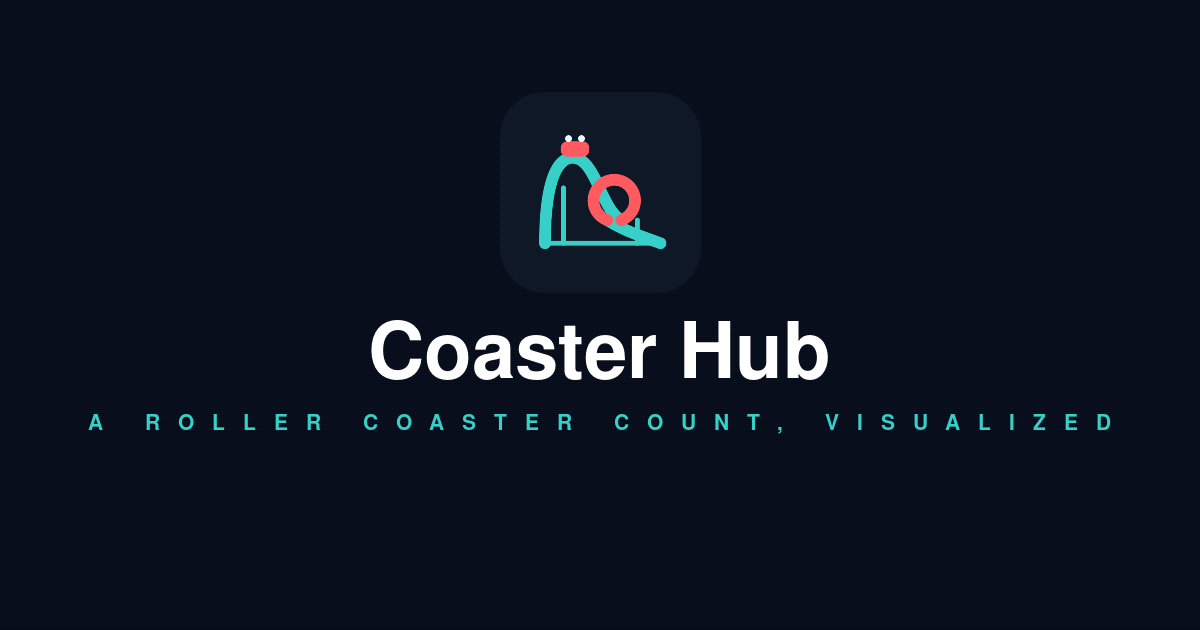
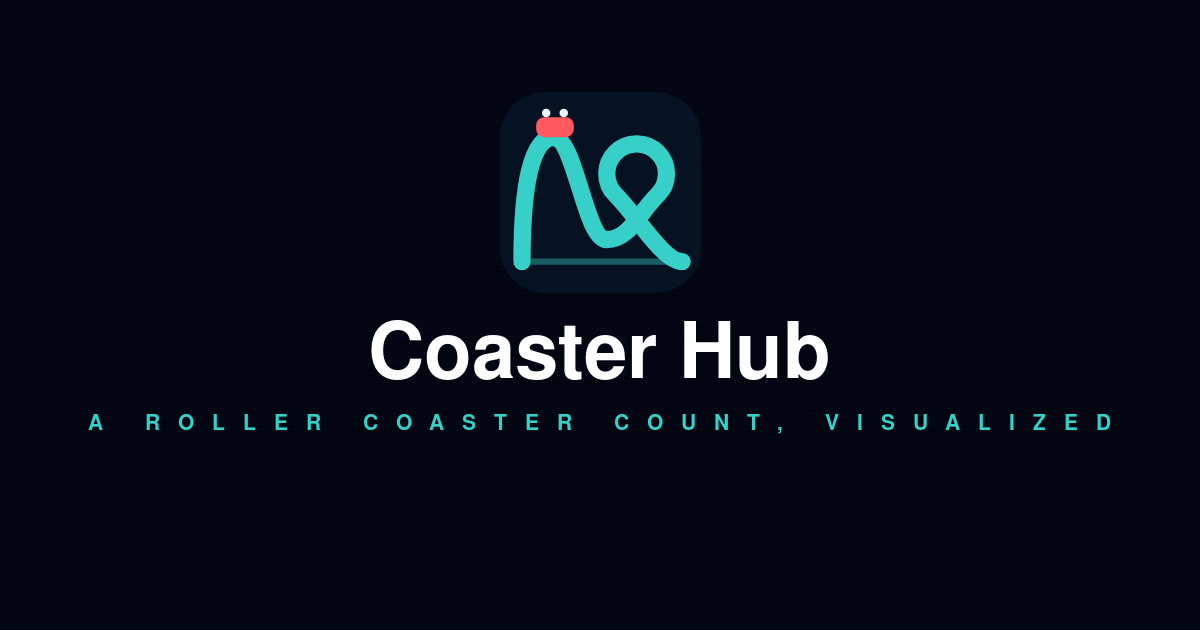
Rework the mark: the track is one continuous path through the loop
The loop was a coral circle butted against the ends of two teal track fragments.
Nothing connected it: the arc's endpoints met the track at an angle rather than
on its tangent, the exit segment started behind the entry point, and the colour
changed exactly at the join — so it read as a sticker parked next to a hill.

It is now a single stroke: lift hill, drop, under the loop, around it, and out.
Two things carry that and both are load-bearing.

  - Entry and exit meet the loop on its TANGENT, 45 degrees either side of the
    bottom, at (50.22,32.72) and (36.78,32.72) on a circle centred (43.5,26)
    r=9.5. There is no corner left to notice.
  - The two legs CROSS below the loop, at about (43.6,40.7). That crossing is
    what reads as track; without it the shape is a balloon on a stick.

Coral is now only the car. A colour break mid-track was the other half of why
the loop looked detached — and a coral loop over converging legs turns the
whole thing into a map pin, which is where the first attempt landed.

The same path is in mark.svg, favicon.svg (no vertical supports — at 32px they
are two grey specks), favicon-small.svg (16px: no ground line, no supports, no
riders' heads, fatter stroke) and logo.svg. tools/render-icons.mjs rebuilds the
rasters from that geometry so they cannot drift. og-image.png is composited
rather than re-rendered: only the 201x201 tile is redrawn, because its wordmark
[…]

Changed region(s): [[0.4008, 0.181, 0.5858, 0.4222]]

diff --git a/index.html b/index.html
@@ -5,12 +5,12 @@
 <meta name="viewport" content="width=device-width, initial-scale=1.0">
 <title>Coaster Hub — A roller coaster count, visualized</title>
 <meta name="description" content="Coaster Hub — an interactive look at roller coaster counts: credits, rides, parks, geography, and records.">
-<link rel="stylesheet" href="/style.css?v=20260805a">
+<link rel="stylesheet" href="/style.css?v=20260805b">
 <script>/* theme: set before paint so light mode never flashes dark (see initTheme in app.js) */try{if(localStorage.getItem("ch_theme")==="light")document.documentElement.setAttribute("data-theme","light")}catch(e){}</script>
-<link rel="icon" href="/favicon.svg" type="image/svg+xml">
-<link rel="icon" href="/favicon-32.png" sizes="32x32" type="image/png">
-<link rel="icon" href="/favicon-16.png" sizes="16x16" type="image/png">
-<link rel="apple-touch-icon" href="/apple-touch-icon.png">
+<link rel="icon" href="/favicon.svg?v=20260805b" type="image/svg+xml">
+<link rel="icon" href="/favicon-32.png?v=20260805b" sizes="32x32" type="image/png">
+<link rel="icon" href="/favicon-16.png?v=20260805b" sizes="16x16" type="image/png">
+<link rel="apple-touch-icon" href="/apple-touch-icon.png?v=20260805b">
 <meta property="og:title" content="Coaster Hub">
 <meta property="og:description" content="A roller coaster count, visualized — credits, rides, parks, geography, and records.">
 <meta property="og:image" content="https://coasterhub.org/og-image.png">
@@ -58,7 +58,7 @@
 <body>
 <header class="nav"><div class="container nav-inner">
   <a class="brand" href="/">
-    <img src="/mark.svg" alt="" class="brand-mark" width="40" height="40">
+    <img src="/mark.svg?v=20260805b" alt="" class="brand-mark" width="40" height="40">
     <span class="brand-text">Coaster <b>Hub</b></span>
   </a>
   <nav class="links">
@@ -148,7 +148,7 @@
   <div><a href="/">Home</a> &nbsp;&middot;&nbsp; <a href="/rankings">Rankings</a> &nbsp;&middot;&nbsp; <a href="/stats">Stats</a> &nbsp;&middot;&nbsp; <a href="/rides">Rides</a> &nbsp;&middot;&nbsp; <a href="/log">Log</a> &nbsp;&middot;&nbsp; <a href="/add">Add new</a> &nbsp;&middot;&nbsp; <a href="/sitemap">Site map</a></div>
 </div></footer>
 
-<script src="/app.js?v=20260805a"></script>
+<script src="/app.js?v=20260805b"></script>
 <script>
 document.getElementById('y').textContent=new Date().getFullYear();
 CoasterHub.initNav('home');

diff --git a/rankings.html b/rankings.html
@@ -6,12 +6,12 @@
 <base href="/">
 <title>Rankings — Coaster Hub</title>
 <meta name="description" content="Rank your favorite coasters, and see how everyone's lists combine — Coaster Hub.">
-<link rel="stylesheet" href="/style.css?v=20260805a">
+<link rel="stylesheet" href="/style.css?v=20260805b">
 <script>/* theme: set before paint so light mode never flashes dark (see initTheme in app.js) */try{if(localStorage.getItem("ch_theme")==="light")document.documentElement.setAttribute("data-theme","light")}catch(e){}</script>
-<link rel="icon" href="/favicon.svg" type="image/svg+xml">
-<link rel="icon" href="/favicon-32.png" sizes="32x32" type="image/png">
-<link rel="icon" href="/favicon-16.png" sizes="16x16" type="image/png">
-<link rel="apple-touch-icon" href="/apple-touch-icon.png">
+<link rel="icon" href="/favicon.svg?v=20260805b" type="image/svg+xml">
+<link rel="icon" href="/favicon-32.png?v=20260805b" sizes="32x32" type="image/png">
+<link rel="icon" href="/favicon-16.png?v=20260805b" sizes="16x16" type="image/png">
+<link rel="apple-touch-icon" href="/apple-touch-icon.png?v=20260805b">
 <meta property="og:title" content="Coaster Hub — Rankings">
 <meta property="og:image" content="https://coasterhub.org/og-image.png">
 <style>
@@ -141,7 +141,7 @@
 <body>
 <header class="nav"><div class="container nav-inner">
   <a class="brand" href="/">
-    <img src="/mark.svg" alt="" class="brand-mark" width="40" height="40">
+    <img src="/mark.svg?v=20260805b" alt="" class="brand-mark" width="40" height="40">
     <span class="brand-text">Coaster <b>Hub</b></span>
   </a>
   <nav class="links">
@@ -242,7 +242,7 @@
   <div><a href="/">Home</a> &nbsp;&middot;&nbsp; <a href="/rankings">Rankings</a> &nbsp;&middot;&nbsp; <a href="/stats">Stats</a> &nbsp;&middot;&nbsp; <a href="/rides">Rides</a> &nbsp;&middot;&nbsp; <a href="/log">Log</a> &nbsp;&middot;&nbsp; <a href="/add">Add new</a> &nbsp;&middot;&nbsp; <a href="/sitemap">Site map</a></div>
 </div></footer>
 
-<script src="/app.js?v=20260805a"></script>
+<script src="/app.js?v=20260805b"></script>
 <script>
 document.getElementById('y').textContent=new Date().getFullYear();
 CoasterHub.initNav('rankings');

diff --git a/changes.html b/changes.html
@@ -6,12 +6,12 @@
 <base href="/">
 <title>Recent changes — Coaster Hub</title>
 <meta name="description" content="What everyone has been adding, logging and fixing on Coaster Hub.">
-<link rel="stylesheet" href="/style.css?v=20260805a">
+<link rel="stylesheet" href="/style.css?v=20260805b">
 <script>/* theme: set before paint so light mode never flashes dark (see initTheme in app.js) */try{if(localStorage.getItem("ch_theme")==="light")document.documentElement.setAttribute("data-theme","light")}catch(e){}</script>
-<link rel="icon" href="/favicon.svg" type="image/svg+xml">
-<link rel="icon" href="/favicon-32.png" sizes="32x32" type="image/png">
-<link rel="icon" href="/favicon-16.png" sizes="16x16" type="image/png">
-<link rel="apple-touch-icon" href="/apple-touch-icon.png">
+<link rel="icon" href="/favicon.svg?v=20260805b" type="image/svg+xml">
+<link rel="icon" href="/favicon-32.png?v=20260805b" sizes="32x32" type="image/png">
+<link rel="icon" href="/favicon-16.png?v=20260805b" sizes="16x16" type="image/png">
+<link rel="apple-touch-icon" href="/apple-touch-icon.png?v=20260805b">
 <meta property="og:title" content="Coaster Hub — Recent changes">
 <meta property="og:image" content="https://coasterhub.org/og-image.png">
 <style>
@@ -44,7 +44,7 @@
 <body>
 <header class="nav"><div class="container nav-inner">
   <a class="brand" href="/">
-    <img src="/mark.svg" alt="" class="brand-mark" width="40" height="40">
+    <img src="/mark.svg?v=20260805b" alt="" class="brand-mark" width="40" height="40">
     <span class="brand-text">Coaster <b>Hub</b></span>
   </a>
   <nav class="links">
@@ -79,7 +79,7 @@
   <div><a href="/">Home</a> &nbsp;&middot;&nbsp; <a href="/rankings">Rankings</a> &nbsp;&middot;&nbsp; <a href="/stats">Stats</a> &nbsp;&middot;&nbsp; <a href="/rides">Rides</a> &nbsp;&middot;&nbsp; <a href="/log">Log</a> &nbsp;&middot;&nbsp; <a href="/add">Add new</a> &nbsp;&middot;&nbsp; <a href="/sitemap">Site map</a></div>
 </div></footer>
 
-<script src="/app.js?v=20260805a"></script>
+<script src="/app.js?v=20260805b"></script>
 <script>
 document.getElementById('y').textContent = new Date().getFullYear();
 CoasterHub.initNav('changes');

diff --git a/rides.html b/rides.html
@@ -6,12 +6,12 @@
 <base href="/">
 <title>Rides — Coaster Hub</title>
 <meta name="description" content="Every ride, by day or as one flat list — Coaster Hub.">
-<link rel="stylesheet" href="/style.css?v=20260805a">
+<link rel="stylesheet" href="/style.css?v=20260805b">
 <script>/* theme: set before paint so light mode never flashes dark (see initTheme in app.js) */try{if(localStorage.getItem("ch_theme")==="light")document.documentElement.setAttribute("data-theme","light")}catch(e){}</script>
-<link rel="icon" href="/favicon.svg" type="image/svg+xml">
-<link rel="icon" href="/favicon-32.png" sizes="32x32" type="image/png">
-<link rel="icon" href="/favicon-16.png" sizes="16x16" type="image/png">
-<link rel="apple-touch-icon" href="/apple-touch-icon.png">
+<link rel="icon" href="/favicon.svg?v=20260805b" type="image/svg+xml">
+<link rel="icon" href="/favicon-32.png?v=20260805b" sizes="32x32" type="image/png">
+<link rel="icon" href="/favicon-16.png?v=20260805b" sizes="16x16" type="image/png">
+<link rel="apple-touch-icon" href="/apple-touch-icon.png?v=20260805b">
 <meta property="og:title" content="Coaster Hub — Rides">
 <meta property="og:image" content="https://coasterhub.org/og-image.png">
 <style>
@@ -133,7 +133,7 @@
 <body>
 <header class="nav"><div class="container nav-inner">
   <a class="brand" href="/">
-    <img src="/mark.svg" alt="" class="brand-mark" width="40" height="40">
+    <img src="/mark.svg?v=20260805b" alt="" class="brand-mark" width="40" height="40">
     <span class="brand-text">Coaster <b>Hub</b></span>
   </a>
   <nav class="links">
@@ -217,7 +217,7 @@
   <div><a href="/">Home</a> &nbsp;&middot;&nbsp; <a href="/rankings">Rankings</a> &nbsp;&middot;&nbsp; <a href="/stats">Stats</a> &nbsp;&middot;&nbsp; <a href="/rides">Rides</a> &nbsp;&middot;&nbsp; <a href="/log">Log</a> &nbsp;&middot;&nbsp; <a href="/add">Add new</a> &nbsp;&middot;&nbsp; <a href="/sitemap">Site map</a></div>
 </div></footer>
 
-<script src="/app.js?v=20260805a"></script>
+<script src="/app.js?v=20260805b"></script>
 <script>
 document.getElementById('y').textContent=new Date().getFullYear();
 CoasterHub.initNav('rides');

diff --git a/add.html b/add.html
@@ -6,12 +6,12 @@
 <base href="/">
 <title>Add new — Coaster Hub</title>
 <meta name="description" content="Add a park or a coaster to the Coaster Hub database.">
-<link rel="stylesheet" href="/style.css?v=20260805a">
+<link rel="stylesheet" href="/style.css?v=20260805b">
 <script>/* theme: set before paint so light mode never flashes dark (see initTheme in app.js) */try{if(localStorage.getItem("ch_theme")==="light")document.documentElement.setAttribute("data-theme","light")}catch(e){}</script>
-<link rel="icon" href="/favicon.svg" type="image/svg+xml">
-<link rel="icon" href="/favicon-32.png" sizes="32x32" type="image/png">
-<link rel="icon" href="/favicon-16.png" sizes="16x16" type="image/png">
-<link rel="apple-touch-icon" href="/apple-touch-icon.png">
+<link rel="icon" href="/favicon.svg?v=20260805b" type="image/svg+xml">
+<link rel="icon" href="/favicon-32.png?v=20260805b" sizes="32x32" type="image/png">
+<link rel="icon" href="/favicon-16.png?v=20260805b" sizes="16x16" type="image/png">
+<link rel="apple-touch-icon" href="/apple-touch-icon.png?v=20260805b">
 <meta property="og:title" content="Coaster Hub — Add new">
 <meta property="og:image" content="https://coasterhub.org/og-image.png">
 <style>
@@ -85,7 +85,7 @@
 <body>
 <header class="nav"><div class="container nav-inner">
   <a class="brand" href="/">
-    <img src="/mark.svg" alt="" class="brand-mark" width="40" height="40">
+    <img src="/mark.svg?v=20260805b" alt="" class="brand-mark" width="40" height="40">
     <span class="brand-text">Coaster <b>Hub</b></span>
   </a>
   <nav class="links">
@@ -194,7 +194,7 @@
   <div><a href="/">Home</a> &nbsp;&middot;&nbsp; <a href="/rankings">Rankings</a> &nbsp;&middot;&nbsp; <a href="/stats">Stats</a> &nbsp;&middot;&nbsp; <a href="/rides">Rides</a> &nbsp;&middot;&nbsp; <a href="/log">Log</a> &nbsp;&middot;&nbsp; <a href="/add">Add new</a> &nbsp;&middot;&nbsp; <a href="/sitemap">Site map</a></div>
 </div></footer>
 
-<script src="/app.js?v=20260805a"></script>
+<script src="/app.js?v=20260805b"></script>
 <script>
 document.getElementById('y').textContent=new Date().getFullYear();
 CoasterHub.initNav('add');

diff --git a/sitemap.html b/sitemap.html
@@ -6,12 +6,12 @@
 <base href="/">
 <title>Site map — Coaster Hub</title>
 <meta name="description" content="Every page on Coaster Hub, including the ones that aren't in the menu.">
-<link rel="stylesheet" href="/style.css?v=20260805a">
+<link rel="stylesheet" href="/style.css?v=20260805b">
 <script>/* theme: set before paint so light mode never flashes dark (see initTheme in app.js) */try{if(localStorage.getItem("ch_theme")==="light")document.documentElement.setAttribute("data-theme","light")}catch(e){}</script>
-<link rel="icon" href="/favicon.svg" type="image/svg+xml">
-<link rel="icon" href="/favicon-32.png" sizes="32x32" type="image/png">
-<link rel="icon" href="/favicon-16.png" sizes="16x16" type="image/png">
-<link rel="apple-touch-icon" href="/apple-touch-icon.png">
+<link rel="icon" href="/favicon.svg?v=20260805b" type="image/svg+xml">
+<link rel="icon" href="/favicon-32.png?v=20260805b" sizes="32x32" type="image/png">
+<link rel="icon" href="/favicon-16.png?v=20260805b" sizes="16x16" type="image/png">
+<link rel="apple-touch-icon" href="/apple-touch-icon.png?v=20260805b">
 <meta property="og:title" content="Coaster Hub — Site map">
 <meta property="og:image" content="https://coasterhub.org/og-image.png">
 <style>
@@ -33,7 +33,7 @@
 <body>
 <header class="nav"><div class="container nav-inner">
   <a class="brand" href="/">
-    <img src="/mark.svg" alt="" class="brand-mark" width="40" height="40">
+    <img src="/mark.svg?v=20260805b" alt="" class="brand-mark" width="40" height="40">
     <span class="brand-text">Coaster <b>Hub</b></span>
   </a>
   <nav class="links">
@@ -60,7 +60,7 @@
   <div><a href="/">Home</a> &nbsp;&middot;&nbsp; <a href="/rankings">Rankings</a> &nbsp;&middot;&nbsp; <a href="/stats">Stats</a> &nbsp;&middot;&nbsp; <a href="/rides">Rides</a> &nbsp;&middot;&nbsp; <a href="/log">Log</a> &nbsp;&middot;&nbsp; <a href="/add">Add new</a> &nbsp;&middot;&nbsp; <a href="/sitemap">Site map</a></div>
 </div></footer>
 
-<script src="/app.js?v=20260805a"></script>
+<script src="/app.js?v=20260805b"></script>
 <script>
 document.getElementById('y').textContent = new Date().getFullYear();
 

diff --git a/stats.html b/stats.html
@@ -6,12 +6,12 @@
 <base href="/">
 <title>My Stats — Coaster Hub</title>
 <meta name="description" content="Interactive roller coaster count statistics.">
-<link rel="stylesheet" href="/style.css?v=20260805a">
+<link rel="stylesheet" href="/style.css?v=20260805b">
 <script>/* theme: set before paint so light mode never flashes dark (see initTheme in app.js) */try{if(localStorage.getItem("ch_theme")==="light")document.documentElement.setAttribute("data-theme","light")}catch(e){}</script>
-<link rel="icon" href="/favicon.svg" type="image/svg+xml">
-<link rel="icon" href="/favicon-32.png" sizes="32x32" type="image/png">
-<link rel="icon" href="/favicon-16.png" sizes="16x16" type="image/png">
-<link rel="apple-touch-icon" href="/apple-touch-icon.png">
+<link rel="icon" href="/favicon.svg?v=20260805b" type="image/svg+xml">
+<link rel="icon" href="/favicon-32.png?v=20260805b" sizes="32x32" type="image/png">
+<link rel="icon" href="/favicon-16.png?v=20260805b" sizes="16x16" type="image/png">
+<link rel="apple-touch-icon" href="/apple-touch-icon.png?v=20260805b">
 <meta property="og:title" content="Coaster Hub">
 <meta property="og:description" content="A roller coaster count, visualized — credits, rides, parks, geography, and records.">
 <meta property="og:image" content="https://coasterhub.org/og-image.png">
@@ -75,7 +75,7 @@
 <body>
 <header class="nav"><div class="container nav-inner">
   <a class="brand" href="/">
-    <img src="/mark.svg" alt="" class="brand-mark" width="40" height="40">
+    <img src="/mark.svg?v=20260805b" alt="" class="brand-mark" width="40" height="40">
     <span class="brand-text">Coaster <b>Hub</b></span>
   </a>
   <nav class="links">
@@ -187,7 +187,7 @@
 </div></footer>
 <div id="hm-tip"></div>
 
-<script src="/app.js?v=20260805a"></script>
+<script src="/app.js?v=20260805b"></script>
 <script>
 document.getElementById('y').textContent=new Date().getFullYear();
 CoasterHub.initNav('stats');

diff --git a/import.html b/import.html
@@ -6,10 +6,10 @@
 <base href="/">
 <title>Import a list — Coaster Hub</title>
 <meta name="robots" content="noindex, nofollow">
-<link rel="stylesheet" href="/style.css?v=20260805a">
+<link rel="stylesheet" href="/style.css?v=20260805b">
 <script>/* theme: set before paint so light mode never flashes dark (see initTheme in app.js) */try{if(localStorage.getItem("ch_theme")==="light")document.documentElement.setAttribute("data-theme","light")}catch(e){}</script>
-<link rel="icon" href="/favicon.svg" type="image/svg+xml">
-<link rel="icon" href="/favicon-32.png" sizes="32x32" type="image/png">
+<link rel="icon" href="/favicon.svg?v=20260805b" type="image/svg+xml">
+<link rel="icon" href="/favicon-32.png?v=20260805b" sizes="32x32" type="image/png">
 <style>
   .gate{max-width:380px;margin:8px auto 80px;background:var(--panel);border:1px solid var(--line);border-radius:14px;padding:24px}
   .gate h2{font-size:1.1rem;margin-bottom:6px}
@@ -93,7 +93,7 @@
 <body>
 <header class="nav"><div class="container nav-inner">
   <a class="brand" href="/">
-    <img src="/mark.svg" alt="" class="brand-mark" width="40" height="40">
+    <img src="/mark.svg?v=20260805b" alt="" class="brand-mark" width="40" height="40">
     <span class="brand-text">Coaster <b>Hub</b></span>
   </a>
   <nav class="links">
@@ -182,7 +182,7 @@
   <div><a href="/">Home</a> &nbsp;&middot;&nbsp; <a href="/rankings">Rankings</a> &nbsp;&middot;&nbsp; <a href="/stats">Stats</a> &nbsp;&middot;&nbsp; <a href="/rides">Rides</a> &nbsp;&middot;&nbsp; <a href="/log">Log</a> &nbsp;&middot;&nbsp; <a href="/add">Add new</a> &nbsp;&middot;&nbsp; <a href="/sitemap">Site map</a></div>
 </div></footer>
 
-<script src="/app.js?v=20260805a"></script>
+<script src="/app.js?v=20260805b"></script>
 <script>
 document.getElementById('y').textContent=new Date().getFullYear();
 CoasterHub.initNav('log');

diff --git a/log.html b/log.html
@@ -6,10 +6,10 @@
 <base href="/">
 <title>Add to your count — Coaster Hub</title>
 <meta name="robots" content="noindex, nofollow">
-<link rel="stylesheet" href="/style.css?v=20260805a">
+<link rel="stylesheet" href="/style.css?v=20260805b">
 <script>/* theme: set before paint so light mode never flashes dark (see initTheme in app.js) */try{if(localStorage.getItem("ch_theme")==="light")document.documentElement.setAttribute("data-theme","light")}catch(e){}</script>
-<link rel="icon" href="/favicon.svg" type="image/svg+xml">
-<link rel="icon" href="/favicon-32.png" sizes="32x32" type="image/png">
+<link rel="icon" href="/favicon.svg?v=20260805b" type="image/svg+xml">
+<link rel="icon" href="/favicon-32.png?v=20260805b" sizes="32x32" type="image/png">
 <style>
   /* The hero already introduces the page, so the gate sits just under it
      rather than floating 60px down a blank screen. */
@@ -87,7 +87,7 @@
 <body>
 <header class="nav"><div class="container nav-inner">
   <a class="brand" href="/">
-    <img src="/mark.svg" alt="" class="brand-mark" width="40" height="40">
+    <img src="/mark.svg?v=20260805b" alt="" class="brand-mark" width="40" height="40">
     <span class="brand-text">Coaster <b>Hub</b></span>
   </a>
   <nav class="links">
@@ -201,7 +201,7 @@
   <div><a href="/">Home</a> &nbsp;&middot;&nbsp; <a href="/rankings">Rankings</a> &nbsp;&middot;&nbsp; <a href="/stats">Stats</a> &nbsp;&middot;&nbsp; <a href="/rides">Rides</a> &nbsp;&middot;&nbsp; <a href="/log">Log</a> &nbsp;&middot;&nbsp; <a href="/add">Add new</a> &nbsp;&middot;&nbsp; <a href="/sitemap">Site map</a></div>
 </div></footer>
 
-<script src="/app.js?v=20260805a"></script>
+<script src="/app.js?v=20260805b"></script>
 <script>
 document.getElementById('y').textContent=new Date().getFullYear();
 // Runs before the gate: the nav has to work whether or not you unlock.

diff --git a/database.html b/database.html
@@ -6,10 +6,10 @@
 <base href="/">
 <title>Coaster database — QC</title>
 <meta name="robots" content="noindex">
-<link rel="stylesheet" href="/style.css?v=20260805a">
+<link rel="stylesheet" href="/style.css?v=20260805b">
 <script>/* theme: set before paint so light mode never flashes dark (see initTheme in app.js) */try{if(localStorage.getItem("ch_theme")==="light")document.documentElement.setAttribute("data-theme","light")}catch(e){}</script>
-<link rel="icon" href="/favicon.svg" type="image/svg+xml">
-<link rel="icon" href="/favicon-32.png" sizes="32x32" type="image/png">
+<link rel="icon" href="/favicon.svg?v=20260805b" type="image/svg+xml">
+<link rel="icon" href="/favicon-32.png?v=20260805b" sizes="32x32" type="image/png">
 <style>
   .qcbar{display:flex;align-items:center;gap:12px;height:56px}
   .qcbar .brand-mark{height:34px;width:34px}
@@ -45,7 +45,7 @@
 <div class="container">
   <div class="qcbar">
     <a href="/" style="display:flex;align-items:center;gap:10px">
-      <img src="/mark.svg" alt="" class="brand-mark">
+      <img src="/mark.svg?v=20260805b" alt="" class="brand-mark">
       <span class="t">Coaster <b>database</b> — QC</span>
     </a>
   </div>

diff --git a/COASTERHUB_HANDOFF.md b/COASTERHUB_HANDOFF.md
@@ -191,6 +191,33 @@ page**. All asset refs are root-absolute (`/style.css`, `/app.js`, `/mark.svg`),
 `stats/rides/rankings/add/log/database` also carry `<base href="/">`. `index.html` deliberately has
 **no** `<base>` — it would break its in-page `#riders` anchor.
 
+### The mark is one path, and the numbers are load-bearing (2026-08-05)
+
+The track in `mark.svg` is a **single continuous stroke** — lift hill, drop, under the loop,
+around it, and out. It used to be three pieces: two teal fragments with a coral circle butted
+against their ends, which read as a sticker parked next to a hill rather than part of the ride.
+Two things carry the fix, and neither is decoration:
+
+- **Entry and exit meet the loop on its tangent**, 45° either side of the bottom — `(50.22,
+  32.72)` and `(36.78,32.72)` on a circle centred `(43.5,26)` with `r=9.5`. That is why there is
+  no corner where they join.
+- **The legs cross below the loop**, at about `(43.6,40.7)`. That crossing is what says
+  "track". Remove it and the shape is a balloon.
+
+Change one of those and you have to change all of them. The coral is now only the car — a
+colour break mid-track was half of why the loop looked detached.
+
+Four SVGs carry the same path and must stay in step: `mark.svg` (header), `favicon.svg` (tile,
+no vertical supports), `favicon-small.svg` (16px: no ground line, no supports, no riders' heads,
+fatter stroke), and `logo.svg` (mark + wordmark).
+
+**Regenerating the rasters:** `favicon-16/32.png` and `apple-touch-icon.png` are rendered from
+that geometry in headless Chromium (see the render script in a scratchpad, or rebuild it — it is
+30 lines). `og-image.png` is **composited, not re-rendered**: only the 201×201 tile at `(500,92)`
+(fill `#061121`, corner radius 45) is redrawn, because the wordmark and tagline in that file were
+set in a font this container does not have and re-rendering the whole card would change the type.
+`logo.png` is stale and unused by any page; nothing links it.
+
 ---
 
 ## The ride log (added 2026-07-28)
